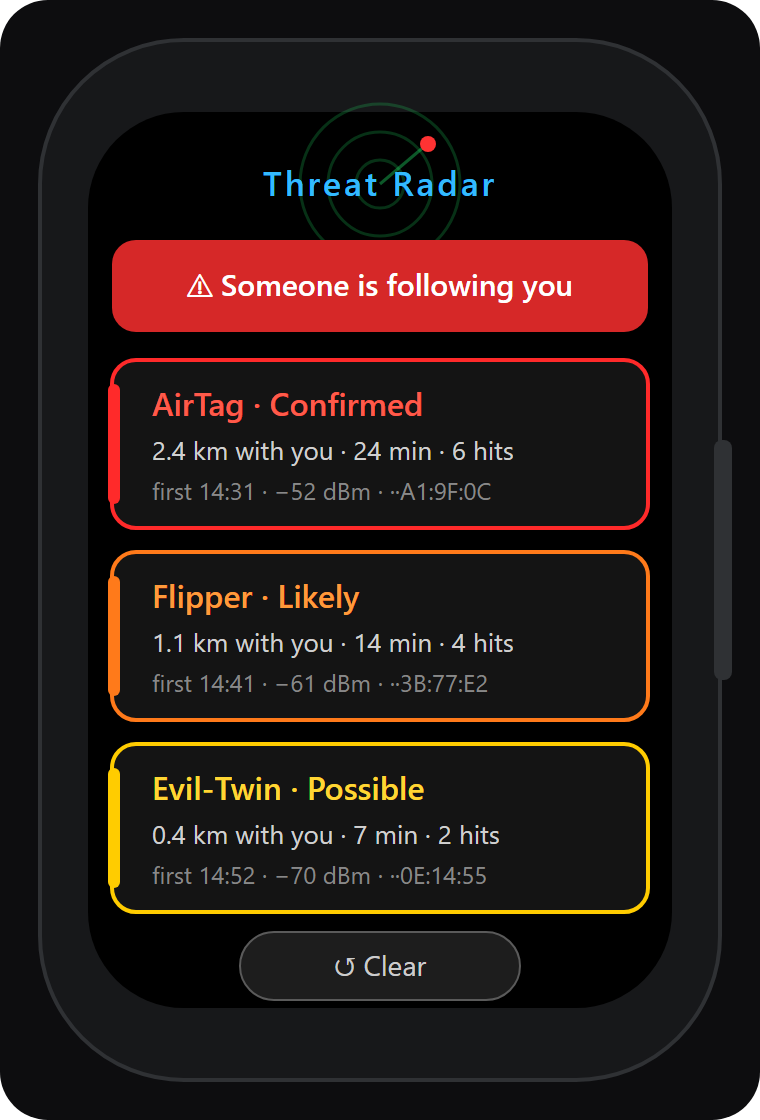
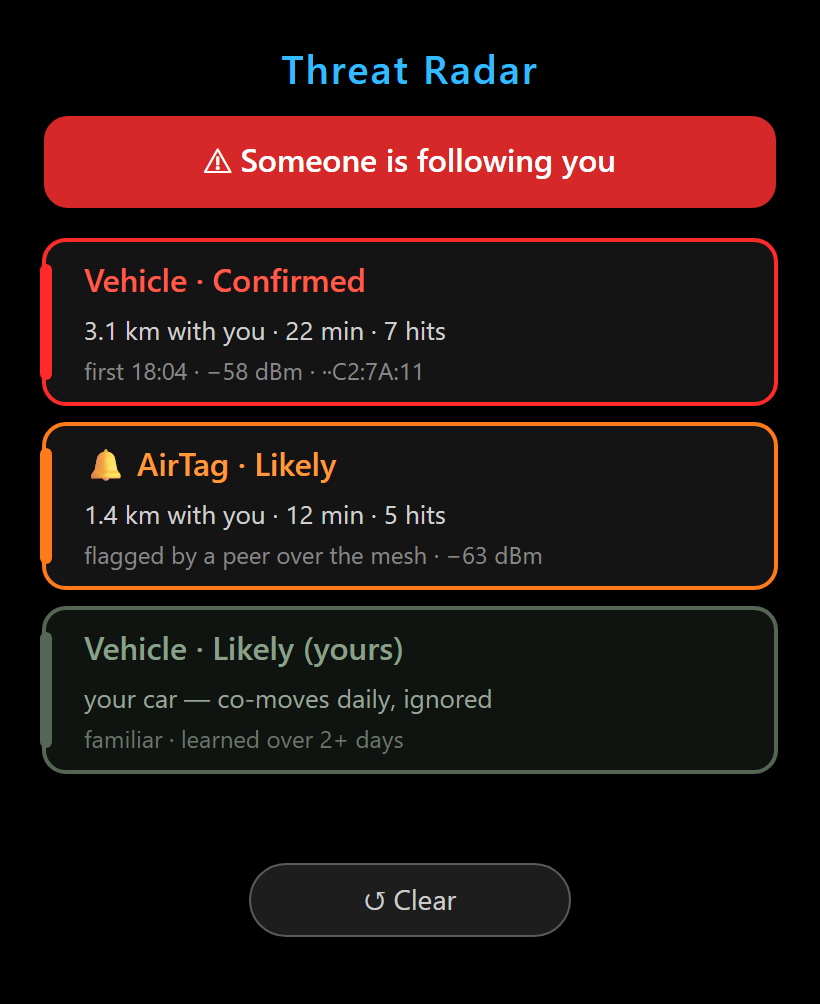
Add vehicular counter-tail + screen-native Radar preview
Counter-tail extends the co-movement test to ambient BLE/WiFi (a tailing car's
infotainment / hotspot / TPMS), surfaced as a new TR_CAT_VEHICLE contact:
- counter_tail.{cpp,h}: persistence prefilter (promote after a few sightings at
  usable signal) feeding threatradar_observe(); learned 'familiar' set (devices
  co-moving with you on >=2 distinct days = your own car/phone) persisted to
  /CounterTail/familiar.txt and auto-suppressed, never alerted or mesh-broadcast.
- wardriver feed hooks (BLE + WiFi), Vehicle category in Threat Radar + the mesh
  reputation codec, and a muted '(yours)' row style on the Radar screen.

README preview swapped to a native 410x502 screen render (replaces the device
mockup) in the original screenshot style, showing a tailing vehicle, a
peer-flagged AirTag, and a familiar own-car row.

Builds clean for twatch_ultra (RAM 59.7%, Flash 84.3%).

diff --git a/src/counter_tail.cpp b/src/counter_tail.cpp
@@ -1,0 +1,146 @@
+#include "counter_tail.h"
+#include "threat_radar.h"   // TR_CAT_VEHICLE + threatradar_observe()
+#include "tracker_rep.h"    // tracker_rep_hash() — shared MAC hashing
+#include <LilyGoLib.h>      // instance, isCardReady
+#include <SD.h>
+#include <Arduino.h>        // millis()
+#include <string.h>
+#include <stdio.h>
+
+void clock_screen_get_local_time(struct tm *out);   // defined in main.cpp
+
+static bool s_enabled = true;
+void counter_tail_set_enabled(bool on) { s_enabled = on; }
+bool counter_tail_enabled()            { return s_enabled; }
+
+// ── Prefilter ──────────────────────────────────────────────────────────────
+// Ambient BLE/WiFi is dense; feeding every one-off device into Threat Radar
+// would flood its 48-slot store. A device must be seen a few times at usable
+// signal before it is promoted — that alone discards transient passers-by, and
+// Threat Radar's spatial scoring then rejects anything that doesn't actually
+// travel with you (roadside fixtures sit at one spot and never reach Likely).
+// Touched only from the wardriver scan callbacks, matching how the built-in
+// detectors run their own tables lock-free.
+#define CT_CAND       96
+#define CT_PROMOTE     3        // sightings before a device enters the radar
+#define CT_MIN_RSSI  (-92)      // ignore very-far devices
+static const uint32_t CT_FEED_MS = 30000;   // re-feed a promoted MAC at most this often
+
+struct Cand { bool used; uint8_t mac[6]; uint16_t hits; uint32_t last_ms; uint32_t feed_ms; };
+static Cand s_cand[CT_CAND];
+
+static Cand *cand_get(const uint8_t *mac)
+{
+    uint32_t now = millis();
+    int free_idx = -1, oldest = 0;
+    for (int i = 0; i < CT_CAND; i++) {
+        if (s_cand[i].used) {
+            if (memcmp(s_cand[i].mac, mac, 6) == 0) return &s_cand[i];
+            if (s_cand[i].last_ms < s_cand[oldest].last_ms) oldest = i;
+        } else if (free_idx < 0) free_idx = i;
+    }
+    int idx = (free_idx >= 0) ? free_idx : oldest;   // reuse empty, else evict stalest
+    Cand &c = s_cand[idx];
+    memset(&c, 0, sizeof(c));
+    c.used = true; memcpy(c.mac, mac, 6); c.last_ms = now;
+    return &c;
+}
+
+static void observe(const uint8_t *mac, int8_t rssi)
+{
+    if (!s_enabled || rssi < CT_MIN_RSSI) return;
+    uint32_t now = millis();
+    Cand *c = cand_get(mac);
+    c->last_ms = now;
+    if (c->hits < 0xFFFF) c->hits++;
+    if (c->hits >= CT_PROMOTE && now - c->feed_ms >= CT_FEED_MS) {
+        c->feed_ms = now;
+        threatradar_observe(mac, rssi, TR_CAT_VEHICLE);
+    }
+}
+
+void counter_tail_observe_ble(const uint8_t *mac6, int8_t rssi)  { observe(mac6, rssi); }
+void counter_tail_observe_wifi(const uint8_t *bssid, int8_t rssi){ observe(bssid, rssi); }
+
+// ── Familiarity (your own daily vehicles/gear) ───────────────────────────────
+// Keyed by MAC hash (compact + privacy). Persisted to /CounterTail/familiar.txt
+// as "HEX8 YYYYMMDD DAYS". Touched only from the main task (Threat Radar).
+#define CT_FAM 128
+struct Fam { bool used; uint32_t hash; uint32_t last_day; uint16_t days; };
+static Fam  s_fam[CT_FAM];
+static bool s_loaded = false;
+
+static uint32_t today_int()
+{
+    struct tm t; clock_screen_get_local_time(&t);
+    return (uint32_t)(t.tm_year + 1900) * 10000u + (uint32_t)(t.tm_mon + 1) * 100u + t.tm_mday;
+}
+
+static void fam_load()
+{
+    s_loaded = true;
+    if (!instance.isCardReady()) return;
+    File f = SD.open("/CounterTail/familiar.txt", FILE_READ);
+    if (!f) return;
+    char line[48];
+    while (f.available()) {
+        int n = f.readBytesUntil('\n', line, sizeof(line) - 1);
+        if (n <= 0) continue;
+        line[n] = '\0';
+        unsigned long h = 0, d = 0; unsigned days = 0;
+        if (sscanf(line, "%lx %lu %u", &h, &d, &days) == 3) {
+            for (int i = 0; i < CT_FAM; i++) if (!s_fam[i].used) {
+                s_fam[i].used = true; s_fam[i].hash = (uint32_t)h;
+                s_fam[i].last_day = (uint32_t)d; s_fam[i].days = (uint16_t)days;
+                break;
+            }
+        }
+    }
+    f.close();
+}
+
+static void fam_save()
+{
+    if (!instance.isCardReady()) return;
+    if (!SD.exists("/CounterTail")) SD.mkdir("/CounterTail");
+    File f = SD.open("/CounterTail/familiar.txt", FILE_WRITE);   // truncate + rewrite
+    if (!f) return;
+    for (int i = 0; i < CT_FAM; i++)
+        if (s_fam[i].used)
+            f.printf("%08lX %lu %u\n", (unsigned long)s_fam[i].hash,
+                     (unsigned long)s_fam[i].last_day, (unsigned)s_fam[i].days);
+    f.close();
+}
+
+static Fam *fam_find(uint32_t h)
+{
+    for (int i = 0; i < CT_FAM; i++)
+        if (s_fam[i].used && s_fam[i].hash == h) return &s_fam[i];
+    return nullptr;
+}
+
+void counter_tail_mark_comover(const uint8_t *mac6)
+{
+    if (!s_loaded) fam_load();
+    uint32_t h = tracker_rep_hash(mac6), day = today_int();
+    Fam *e = fam_find(h);
+    if (!e) {
+        for (int i = 0; i < CT_FAM; i++) if (!s_fam[i].used) { e = &s_fam[i]; break; }
+        if (!e) return;                          // table full — give up quietly
+        e->used = true; e->hash = h; e->last_day = day; e->days = 1;
+        fam_save();
+        return;
+    }
+    if (e->last_day != day) {                    // a new distinct day with us
+        e->last_day = day;
+        if (e->days < 0xFFFF) e->days++;
+        fam_save();
+    }
+}
+
+bool counter_tail_is_familiar(const uint8_t *mac6)
+{
+    if (!s_loaded) fam_load();
+    Fam *e = fam_find(tracker_rep_hash(mac6));
+    return e && e->days >= 2;
+}

diff --git a/src/counter_tail.h b/src/counter_tail.h
@@ -1,0 +1,39 @@
+#pragma once
+#include <stdint.h>
+#include <stdbool.h>
+
+// ---------------------------------------------------------------------------
+// Vehicular counter-tail.
+//
+// A tracker in a pocket is one thing; a CAR tailing you is another. A following
+// vehicle radiates persistent BLE (infotainment, TPMS, the driver's phone) and
+// WiFi (its hotspot) the whole drive. Threat Radar's co-movement engine can
+// already catch any MAC that travels with you — the only reason it doesn't catch
+// cars is that the five built-in detectors only match narrow tracker signatures.
+//
+// This bridges the gap: it watches the wardriver's full ambient BLE/WiFi feed,
+// promotes devices that are persistent and close enough to matter into Threat
+// Radar as TR_CAT_VEHICLE, and lets the existing spatio-temporal scoring decide
+// whether one is actually following. A learned "familiar" set — devices that
+// co-move with you on two or more separate days (your own car, phone, earbuds)
+// — is auto-suppressed and never broadcast, so only an UNFAMILIAR co-moving
+// vehicle raises the alarm. The familiar tally is persisted to the SD card.
+// ---------------------------------------------------------------------------
+
+void counter_tail_set_enabled(bool on);
+bool counter_tail_enabled();
+
+// Prefilter — called from the wardriver scan feed for every ambient device, on
+// the BT/WiFi task. Promotes a device into Threat Radar (TR_CAT_VEHICLE) once it
+// has been seen enough times at usable signal. No-op while disabled.
+void counter_tail_observe_ble(const uint8_t *mac6, int8_t rssi);
+void counter_tail_observe_wifi(const uint8_t *bssid, int8_t rssi);
+
+// Called by Threat Radar (main task) the first time a TR_CAT_VEHICLE contact is
+// found co-moving: records that this device travelled with you today and, on a
+// new day, bumps + persists its day tally.
+void counter_tail_mark_comover(const uint8_t *mac6);
+
+// True once a device has co-moved with you on >= 2 distinct days — i.e. it is
+// one of your own daily vehicles/gear, not a tail. Used to suppress the alert.
+bool counter_tail_is_familiar(const uint8_t *mac6);

diff --git a/src/threat_radar.cpp b/src/threat_radar.cpp
@@ -3,6 +3,7 @@
 void clock_screen_get_local_time(struct tm *out);   // defined in main.cpp
 #include "gps_screen.h"
 #include "tracker_rep.h"
+#include "counter_tail.h"
 #include <LilyGoLib.h>   // provides `instance`, whose .gps is a TinyGPSPlus
 #include <SD.h>
 #include <string.h>
@@ -45,6 +46,7 @@ struct TrContact {
     bool     alerted;          // already buzzed for LIKELY+ (edge latch)
     bool     community;        // flagged as a stalker over the mesh (peer or us)
     bool     broadcast;        // we've already announced this tail to the mesh
+    bool     familiar;         // a vehicle you co-move with daily (your own car)
     uint32_t flagged_by;       // peer node id that flagged it (0 = us / local)
 
     uint16_t nwp;              // distinct waypoints stepped through
@@ -73,7 +75,7 @@ static uint32_t  s_buzz_last_ms = 0;
 // ---------------------------------------------------------------------------
 
 static const char *kCatNames[TR_CAT_COUNT] = {
-    "AirTag", "Flipper", "Skimmer", "Flock", "Evil-Twin"
+    "AirTag", "Flipper", "Skimmer", "Flock", "Evil-Twin", "Vehicle"
 };
 static const char *kLvlNames[4] = { "—", "POSSIBLE", "LIKELY", "CONFIRMED" };
 
@@ -191,6 +193,7 @@ static void fill_threat(const TrContact *c, TrThreat *t, uint32_t now)
     t->best_rssi = c->best_rssi;
     t->active    = (now - c->last_ms) < TR_STALE_MS;
     t->community = c->community;
+    t->familiar  = c->familiar;
     t->first_lat = (float)c->first_lat;
     t->first_lon = (float)c->first_lon;
     memcpy(t->first_time, c->first_time, sizeof(t->first_time));
@@ -250,19 +253,30 @@ static void fold_sighting(const TrSighting *s, bool has_fix,
     // Edge: first time this contact reaches LIKELY, raise the alert + buzz.
     if (c->level >= TR_LVL_LIKELY && !c->alerted) {
         c->alerted = true;
-        log_tail_to_sd(c);          // evidence trail on the first alert
-        if (!s_alert_pending) {
-            fill_threat(c, &s_alert_snap, now);
-            s_alert_pending = true;
+        // A vehicle that co-moves with you on most days is your own — learn it
+        // and stay silent. Only an UNFAMILIAR co-moving vehicle is a tail.
+        bool suppress = false;
+        if (c->category == TR_CAT_VEHICLE) {
+            counter_tail_mark_comover(c->mac);
+            suppress = c->familiar = counter_tail_is_familiar(c->mac);
         }
-        s_buzz_left = 3;            // distinctive triple-pulse
+        if (!suppress) {
+            log_tail_to_sd(c);      // evidence trail on the first alert
+            if (!s_alert_pending) {
+                fill_threat(c, &s_alert_snap, now);
+                s_alert_pending = true;
+            }
+            s_buzz_left = 3;        // distinctive triple-pulse
+        }
     }
 
     // Confirmed locally → announce this tail to the mesh so the whole group is
-    // warned. tracker_rep dedups + gates on the LoRa radio being active.
+    // warned. tracker_rep dedups + gates on the LoRa radio being active. Never
+    // broadcast one of your own familiar vehicles.
     if (c->level >= TR_LVL_CONFIRMED && !c->broadcast) {
         c->broadcast = true;
-        tracker_rep_flag_local(c->mac, c->category);
+        if (!(c->category == TR_CAT_VEHICLE && counter_tail_is_familiar(c->mac)))
+            tracker_rep_flag_local(c->mac, c->category);
     }
 }
 

diff --git a/src/threat_radar_screen.cpp b/src/threat_radar_screen.cpp
@@ -28,11 +28,14 @@ static bool s_active = false;
 static void add_row(const TrThreat *t)
 {
     lv_obj_t *row = lv_obj_create(s_list);
+    // A familiar vehicle (your own car/phone) is shown muted, never as a threat.
+    lv_color_t accent = t->familiar ? lv_color_make(0x55, 0x66, 0x55)
+                                     : lvl_color(t->level);
     lv_obj_set_size(row, 380, 84);
     lv_obj_set_style_bg_color(row, lv_color_make(0x14, 0x14, 0x14), LV_PART_MAIN);
     lv_obj_set_style_bg_opa(row, LV_OPA_COVER, LV_PART_MAIN);
     lv_obj_set_style_radius(row, 10, LV_PART_MAIN);
-    lv_obj_set_style_border_color(row, lvl_color(t->level), LV_PART_MAIN);
+    lv_obj_set_style_border_color(row, accent, LV_PART_MAIN);
     lv_obj_set_style_border_width(row, 2, LV_PART_MAIN);
     lv_obj_set_style_pad_all(row, 8, LV_PART_MAIN);
     lv_obj_set_style_pad_left(row, 14, LV_PART_MAIN);
@@ -42,7 +45,7 @@ static void add_row(const TrThreat *t)
     lv_obj_t *bar = lv_obj_create(row);
     lv_obj_set_size(bar, 6, 52);
     lv_obj_set_style_radius(bar, 3, LV_PART_MAIN);
-    lv_obj_set_style_bg_color(bar, lvl_color(t->level), LV_PART_MAIN);
+    lv_obj_set_style_bg_color(bar, accent, LV_PART_MAIN);
     lv_obj_set_style_bg_opa(bar, t->active ? LV_OPA_COVER : LV_OPA_40, LV_PART_MAIN);
     lv_obj_set_style_border_width(bar, 0, LV_PART_MAIN);
     lv_obj_set_style_pad_all(bar, 0, LV_PART_MAIN);
@@ -53,13 +56,13 @@ static void add_row(const TrThreat *t)
     lv_obj_t *head = lv_label_create(row);
     lv_obj_set_style_text_font(head, &lv_font_montserrat_20, LV_PART_MAIN);
     lv_obj_set_style_text_color(head,
-        t->active ? lvl_color(t->level) : lv_color_make(0x77, 0x77, 0x77),
+        t->active ? accent : lv_color_make(0x77, 0x77, 0x77),
         LV_PART_MAIN);
     lv_label_set_text_fmt(head, "%s%s  ·  %s%s",
         t->community ? LV_SYMBOL_BELL " " : "",   // flagged over the mesh
         threatradar_category_name(t->category),
         threatradar_level_name(t->level),
-        t->active ? "" : "  (lost)");
+        t->familiar ? "  (yours)" : (t->active ? "" : "  (lost)"));
     lv_obj_align(head, LV_ALIGN_TOP_LEFT, 8, 2);
 
     // Metrics: distance travelled alongside, dwell minutes, waypoint count.

diff --git a/src/tracker_rep.cpp b/src/tracker_rep.cpp
@@ -7,10 +7,10 @@
 
 // One-character category code carried on the wire, indexed by the Threat Radar
 // TrCategory enum (AirTag=0, Flipper=1, Skimmer=2, Flock=3, Evil-Twin=4).
-static const char kCatChar[5] = { 'A', 'F', 'S', 'K', 'E' };
-static char cat_to_char(uint8_t c) { return c < 5 ? kCatChar[c] : 'A'; }
+static const char kCatChar[6] = { 'A', 'F', 'S', 'K', 'E', 'V' };
+static char cat_to_char(uint8_t c) { return c < 6 ? kCatChar[c] : 'A'; }
 static uint8_t char_to_cat(char ch) {
-    for (uint8_t i = 0; i < 5; i++) if (kCatChar[i] == ch) return i;
+    for (uint8_t i = 0; i < 6; i++) if (kCatChar[i] == ch) return i;
     return 0;
 }
 

diff --git a/src/wardriver_screen.cpp b/src/wardriver_screen.cpp
@@ -14,6 +14,7 @@ void clock_screen_get_local_time(struct tm *out);
 #include "flipper.h"
 #include "skimmer.h"
 #include "evil_twin.h"
+#include "counter_tail.h"
 
 void clock_screen_show();
 
@@ -138,6 +139,7 @@ static void wd_beacon_cb(const WifiBeacon *b) {
 
     flock_check(raw.mac, raw.rssi, raw.ssid, 'W');
     evil_twin_check(raw.mac, raw.ssid, raw.auth, raw.rssi, raw.channel);
+    counter_tail_observe_wifi(raw.mac, raw.rssi);
     xQueueSend(ap_queue, &raw, 0);
 }
 
@@ -185,6 +187,7 @@ static void ble_gap_cb(esp_ble_gap_cb_param_t *param) {
     airtag_check(raw.mac, raw.rssi, res.ble_addr_type, res.ble_adv, total_len);
     flipper_check(raw.mac, raw.rssi, res.ble_addr_type, res.ble_adv, total_len);
     skimmer_check(raw.mac, raw.rssi, res.ble_addr_type, res.ble_adv, total_len);
+    counter_tail_observe_ble(raw.mac, raw.rssi);
     xQueueSend(ap_queue, &raw, 0);
 }
 

diff --git a/src/threat_radar.h b/src/threat_radar.h
@@ -27,6 +27,7 @@ enum TrCategory {
     TR_CAT_SKIMMER,
     TR_CAT_FLOCK,
     TR_CAT_EVILTWIN,
+    TR_CAT_VEHICLE,        // ambient BLE/WiFi promoted by counter-tail (a car)
     TR_CAT_COUNT
 };
 
@@ -62,6 +63,7 @@ struct TrThreat {
     int8_t   best_rssi;    // strongest (closest) RSSI seen — proximity hint
     bool     active;       // seen within the staleness window
     bool     community;    // flagged as a stalker over the mesh (peer or us)
+    bool     familiar;     // a vehicle/device you co-move with daily (your own)
     float    first_lat;    // where it was first picked up — the map pin
     float    first_lon;
     char     first_time[6];// "HH:MM" first seen

diff --git a/README.md b/README.md
@@ -2,6 +2,10 @@
 
 **Custom firmware for the LILYGO T-Watch Ultra** — turns the ESP32-S3 smartwatch (AMOLED display, LoRa, GNSS, NFC, full sensor suite) into a smartwatch plus a suite of RF and wireless tools.
 
+[![build](https://github.com/ciccirix/13-37-threat-radar/actions/workflows/build.yml/badge.svg)](https://github.com/ciccirix/13-37-threat-radar/actions/workflows/build.yml)
+
+⬇️ **[Download the latest flashable build](https://github.com/ciccirix/13-37-threat-radar/releases/latest)** — grab `1337-threat-radar-merged.bin` and flash it at offset `0x0` (esptool or an ESP Web Tools / esptool-js web flasher). Rebuilt automatically on every push.
+
 ---
 ## 🛰️ Threat Radar — *this fork's addition*
 
@@ -9,11 +13,13 @@
 
 **Mesh reputation (group mode):** when a tail is *Confirmed*, the watch broadcasts a hashed flag (`TRFLAG|<hash>|<cat>`) over the active Meshtastic channel — the MAC is shared only as a 32-bit hash, never in the clear. Every peer on the channel stores it, and if their own detectors later see a matching device, Threat Radar escalates it on sight (a bell badge + immediate alert) without waiting to re-derive the tail locally. One rider flags a stalker; the whole pack is warned.
 
-<p align="center">
-  <img src="img/threat_radar.png" alt="Threat Radar screen" width="300">
-</p>
+**Counter-tail (vehicles):** the same co-movement test is extended to ambient BLE/WiFi, so a *car* shadowing you across a drive — its infotainment, hotspot or TPMS riding along — surfaces as a `Vehicle` contact. Devices that travel with you on two or more separate days (your own car, phone, earbuds) are learned and muted as *familiar*, so only an unknown vehicle that is actually following raises the alarm.
 
-> *Concept mockup of the Radar screen — on-device screenshots to follow.*
+| Threat Radar |
+| :---: |
+| <img src="img/threat_radar.png" width="300" alt="Threat Radar screen"> |
+
+> Rendered at the watch's native 410×502 resolution — showing a tailing vehicle, a peer-flagged AirTag, and your own car muted as *familiar*. On-device screenshots to follow once flashed.
 
 ---
 ## Purchase